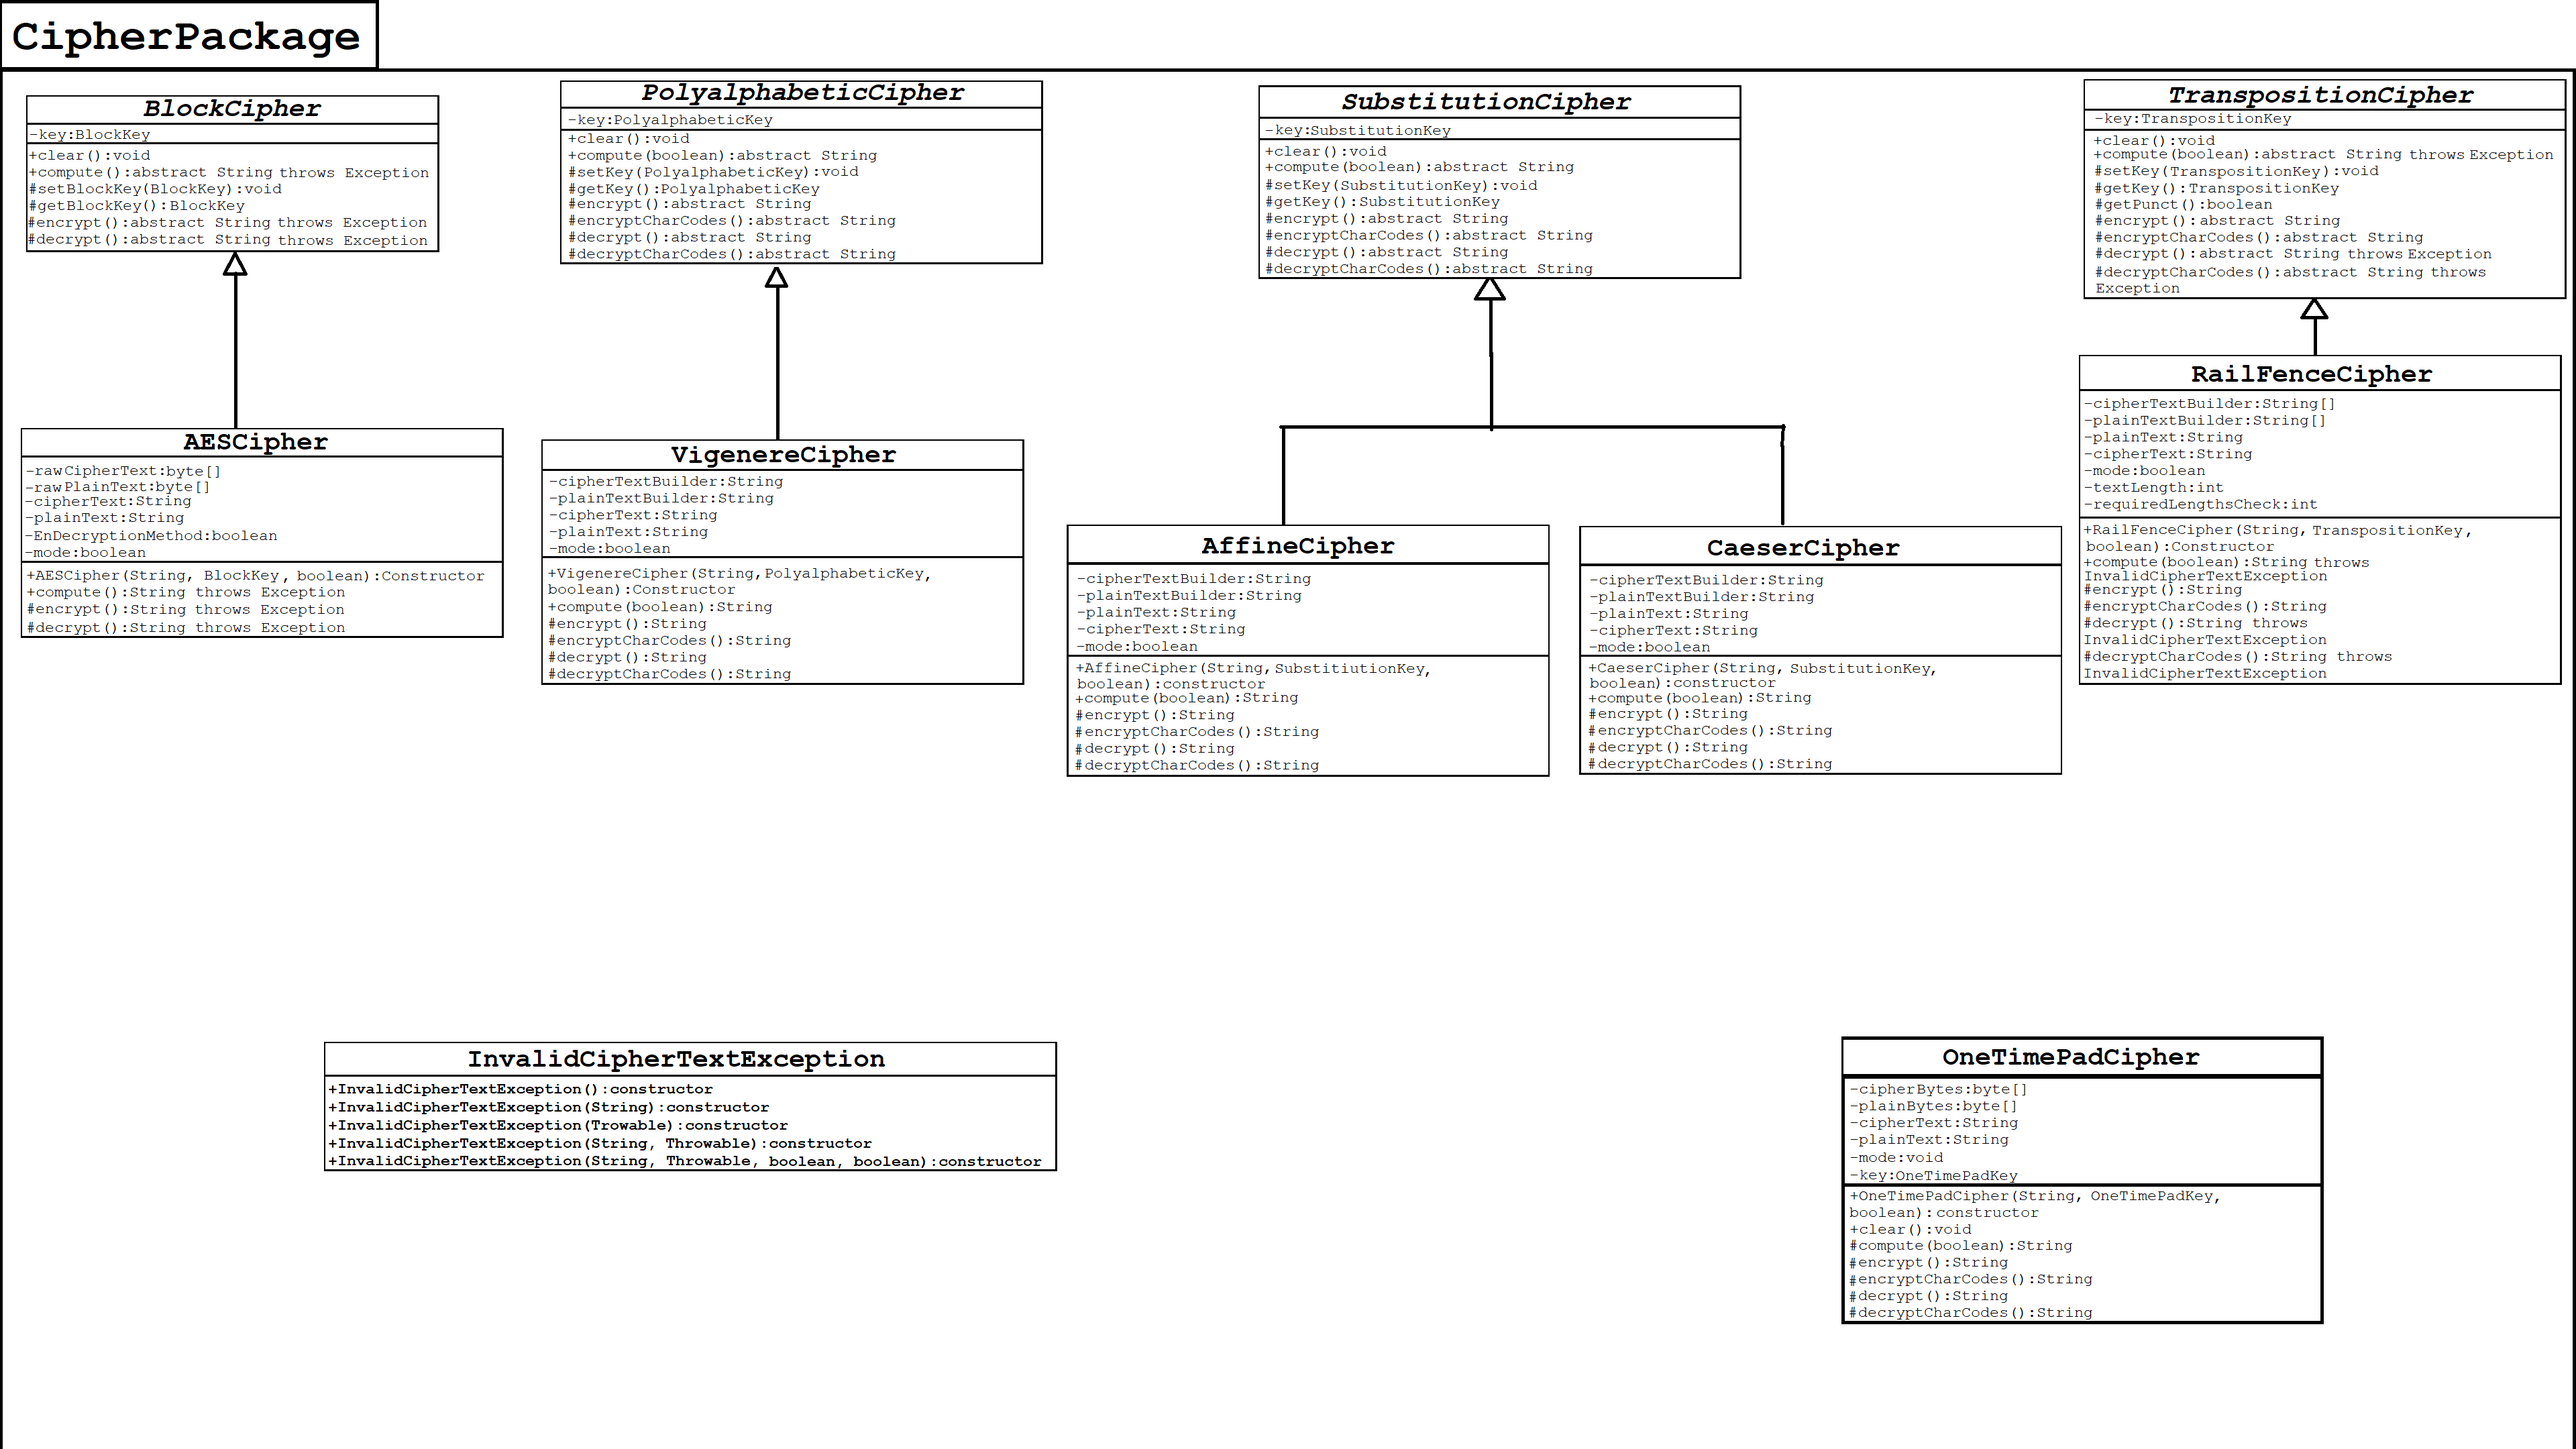
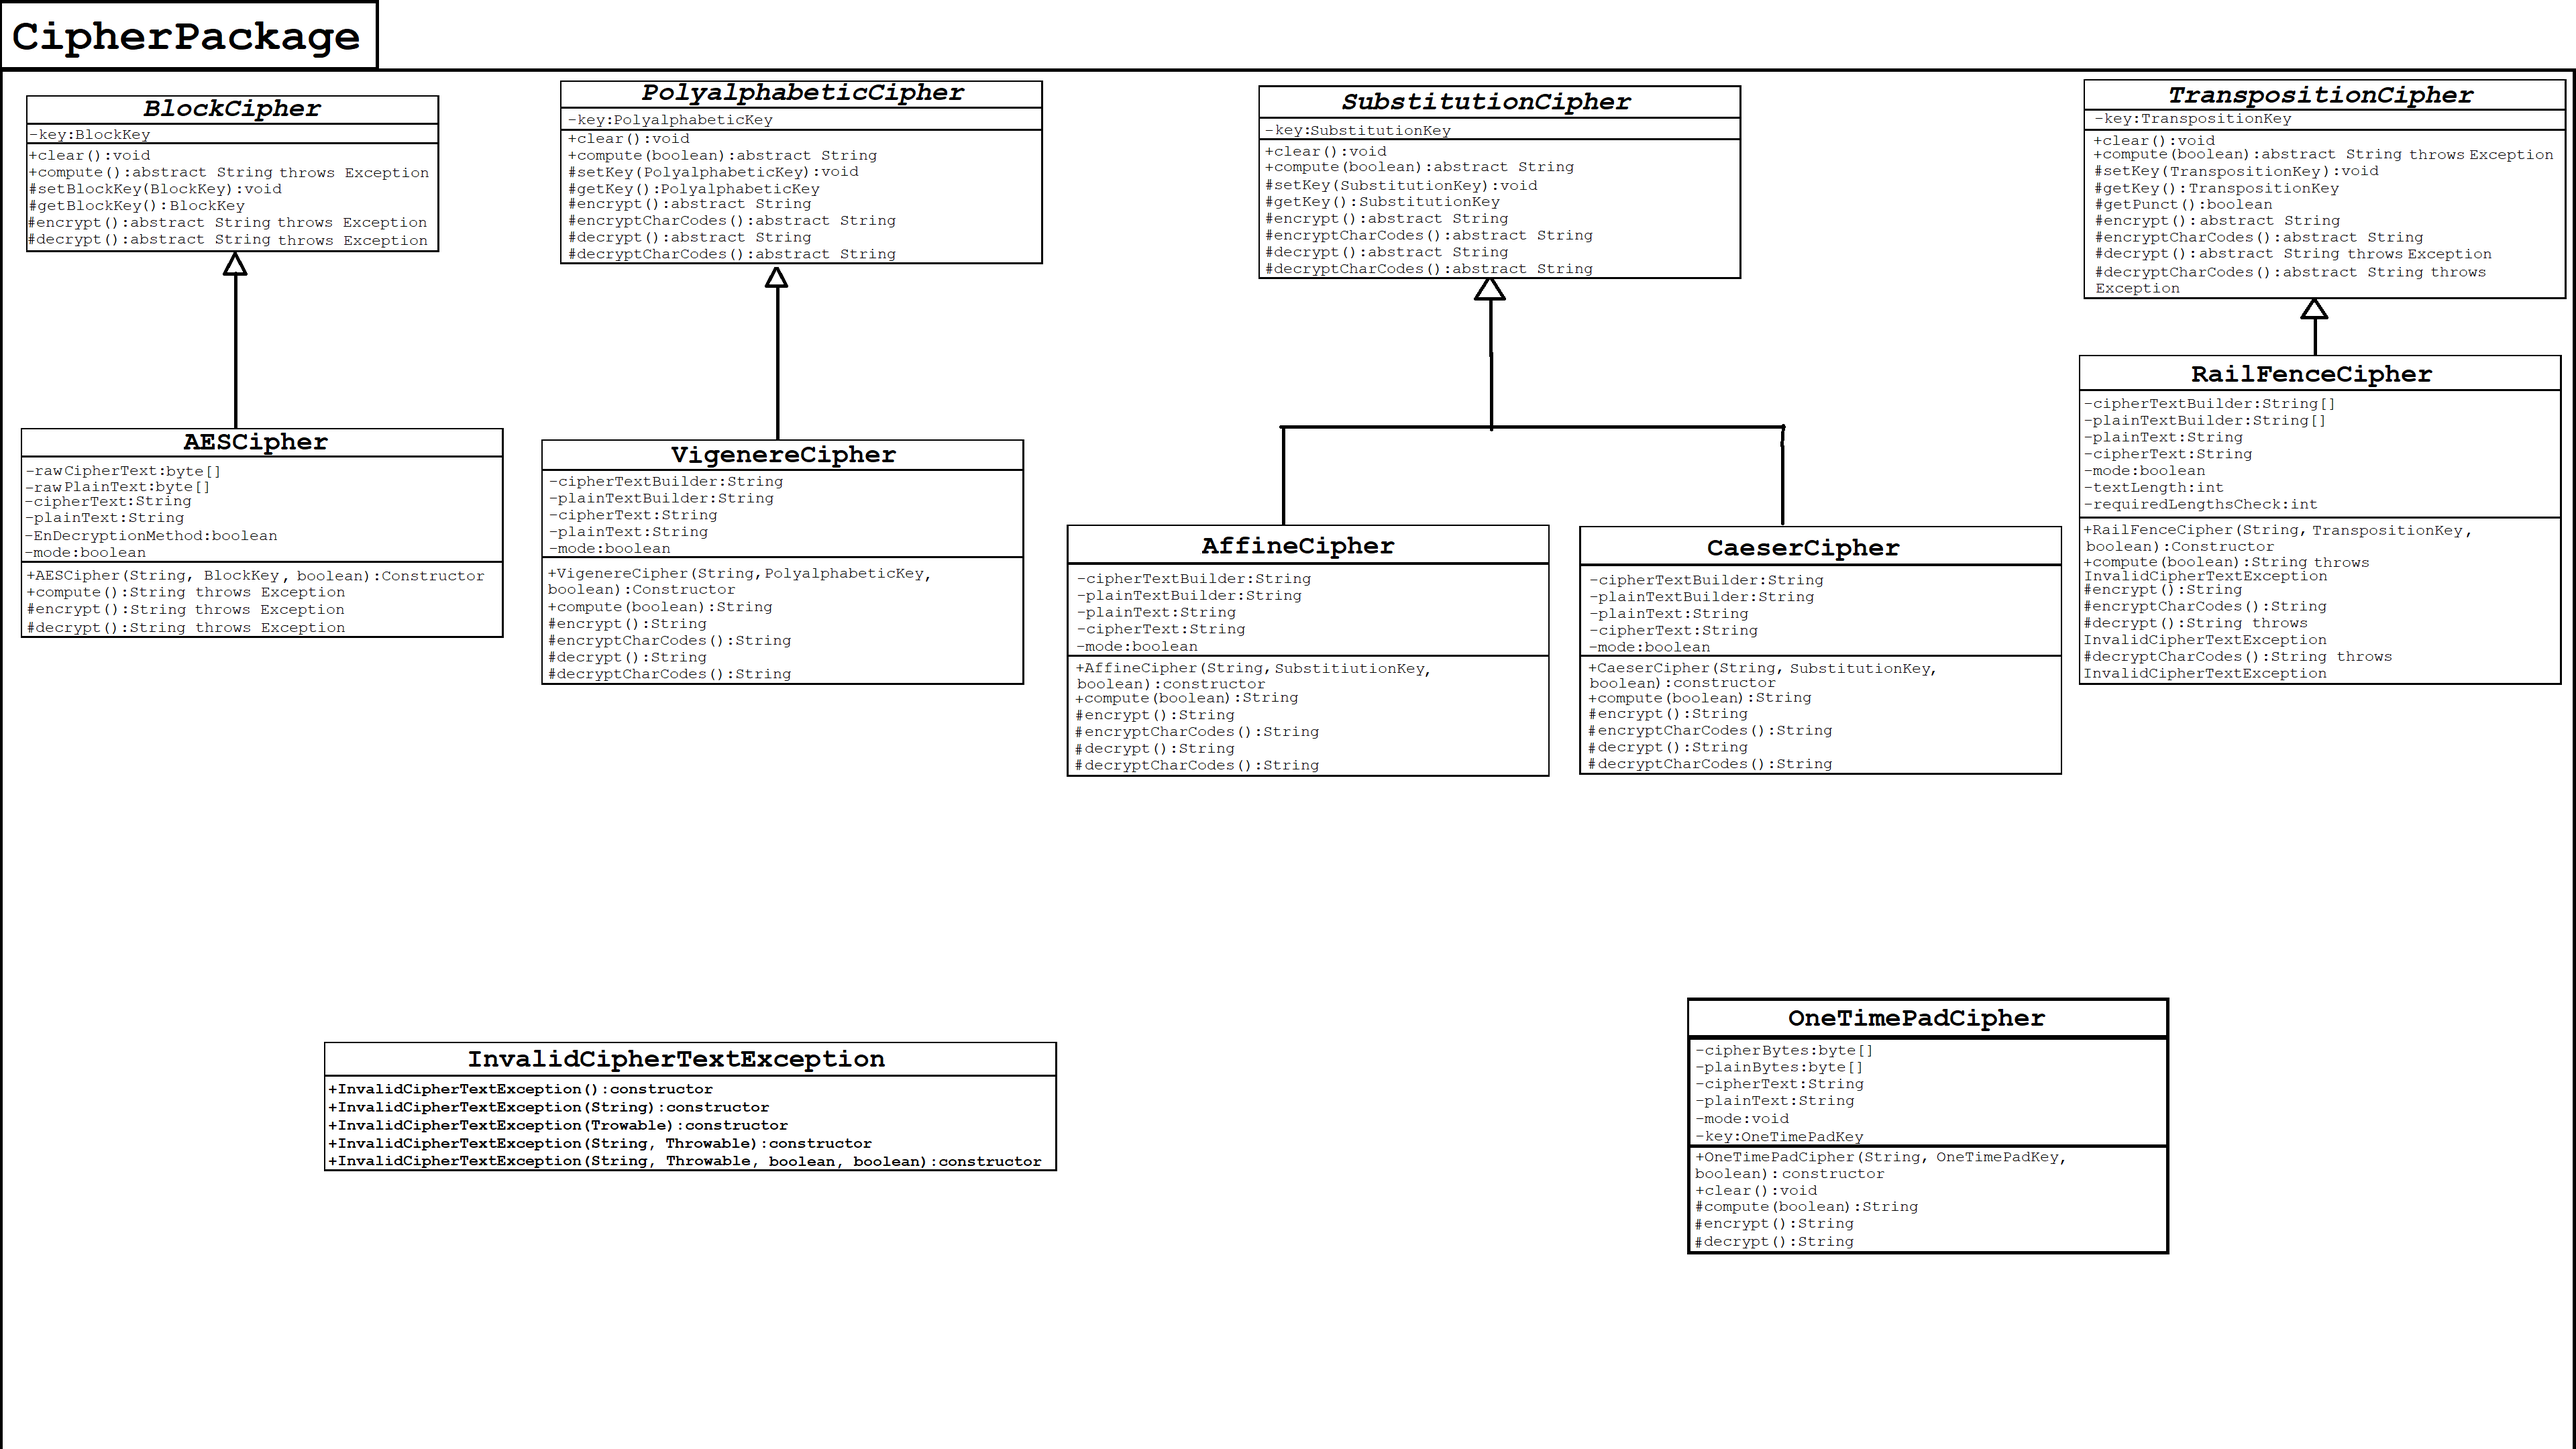
Updated the OneTimePadCipher diagram to remove unnessessary methods that I now think do not need to be implmented.  Also completed the code for the first version of OneTimePadCipher Java class.

Changed region(s): [[0.6562, 0.6824, 0.9062, 0.9306]]

diff --git a/Encryptor Decryptor File Encryption/src/Encryptor Decryptor File Ecryption/CipherPackage/OneTimePadCipher.java b/Encryptor Decryptor File Encryption/src/Encryptor Decryptor File Ecryption/CipherPackage/OneTimePadCipher.java
@@ -3,6 +3,8 @@
  */
 package CipherPackage;
 
+import java.io.UnsupportedEncodingException;
+
 import CipherKeys.OneTimePadKey;
 
 /**
@@ -12,8 +14,8 @@ import CipherKeys.OneTimePadKey;
 public class OneTimePadCipher 
 {
 	
-	private String cipherTextBuilder;
-	private String plainTextBuilder;
+	private byte[] cipherBytes;
+	private byte[] plainBytes;
 	private String cipherText;
 	private String plainText;
 	private boolean mode;
@@ -43,10 +45,104 @@ public class OneTimePadCipher
 	{
 		if(mode)
 		{
-			if(inputType) // Is not a string of bits.  
+			if(inputType) // Is not a String of bytes, is a literal plaintext.  
 			{
-				cipherText = 
+				try 
+				{
+					plainBytes = plainText.getBytes("UTF-16");
+				} 
+				catch (UnsupportedEncodingException e) 
+				{
+					// TODO Auto-generated catch block
+					e.printStackTrace();
+					System.out.println("Error could not interpret text.  ");
+					System.out.println("Fatal program error, programm will close in 10 seconds.  ");
+					for(int i = 0; i < 100000; i++)
+					{
+						i = i; // Do nothing.  
+					}
+					System.exit(1);
+				}
 			}
+			else // Is a String of bytes, where each byte is separated by a space.  
+			{
+				String[] stringBytes = plainText.split(" ");
+				for(int index = 0; index < stringBytes.length; index++)
+				{
+					plainBytes[index] = Byte.parseByte(stringBytes[index]);
+				}
+			}
+			return encrypt();
 		}
+		else
+		{
+			try
+			{
+				cipherBytes = cipherText.getBytes("UTF-16");
+			}
+			catch(UnsupportedEncodingException e)
+			{
+				e.printStackTrace();
+				System.out.println("Error could not interpret text.  ");
+				System.out.println("Fatal program error, programm will close in 10 seconds.  ");
+				for(int i = 0; i < 100000; i++)
+				{
+					i = i; // Do nothing.  
+				}
+				System.exit(1);
+			}
+			return decrypt();
+		}
+	}
+	
+	protected String encrypt()
+	{
+		cipherBytes = new byte[key.getTextLength()];
+		for(int index = 0; index < plainBytes.length; index++)
+		{
+			cipherBytes[index] = (byte)(key.getKey()[index] ^ plainBytes[index]);
+		}
+		try 
+		{
+			cipherText = new String(cipherBytes, "UTF-16");
+		} 
+		catch (UnsupportedEncodingException e) 
+		{
+			// TODO Auto-generated catch block
+			e.printStackTrace();
+			System.out.println("Error could not interpret text.  ");
+			System.out.println("Fatal program error, programm will close in 10 seconds.  ");
+			for(int i = 0; i < 100000; i++)
+			{
+				i = i; // Do nothing.  
+			}
+			System.exit(1);
+		}
+		return cipherText;
+	}
+	
+	protected String decrypt()
+	{
+		plainBytes = new byte[key.getTextLength()];
+		for(int index = 0; index < cipherBytes.length; index++)
+		{
+			plainBytes[index] = (byte)(key.getKey()[index] ^ cipherBytes[index]);
+		}
+		try
+		{
+			plainText = new String(cipherBytes, "UTF-16");
+		}
+		catch(UnsupportedEncodingException e)
+		{
+			e.printStackTrace();
+			System.out.println("Error could not interpret text.  ");
+			System.out.println("Fatal program error, programm will close in 10 seconds.  ");
+			for(int i = 0; i < 100000; i++)
+			{
+				i = i; // Do nothing.  
+			}
+			System.exit(1);
+		}
+		return plainText;
 	}
 }
